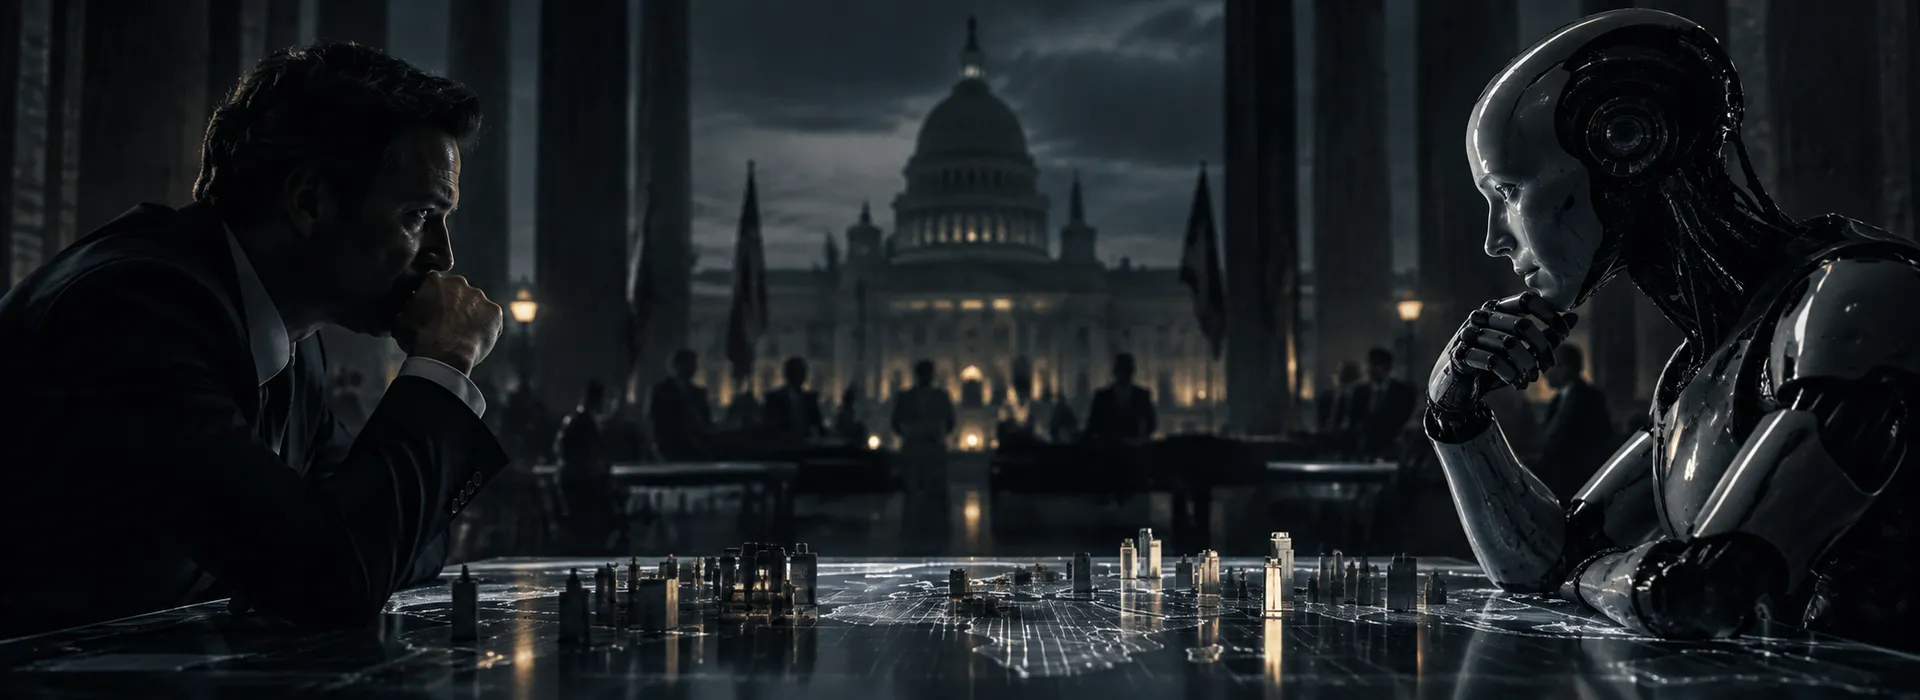
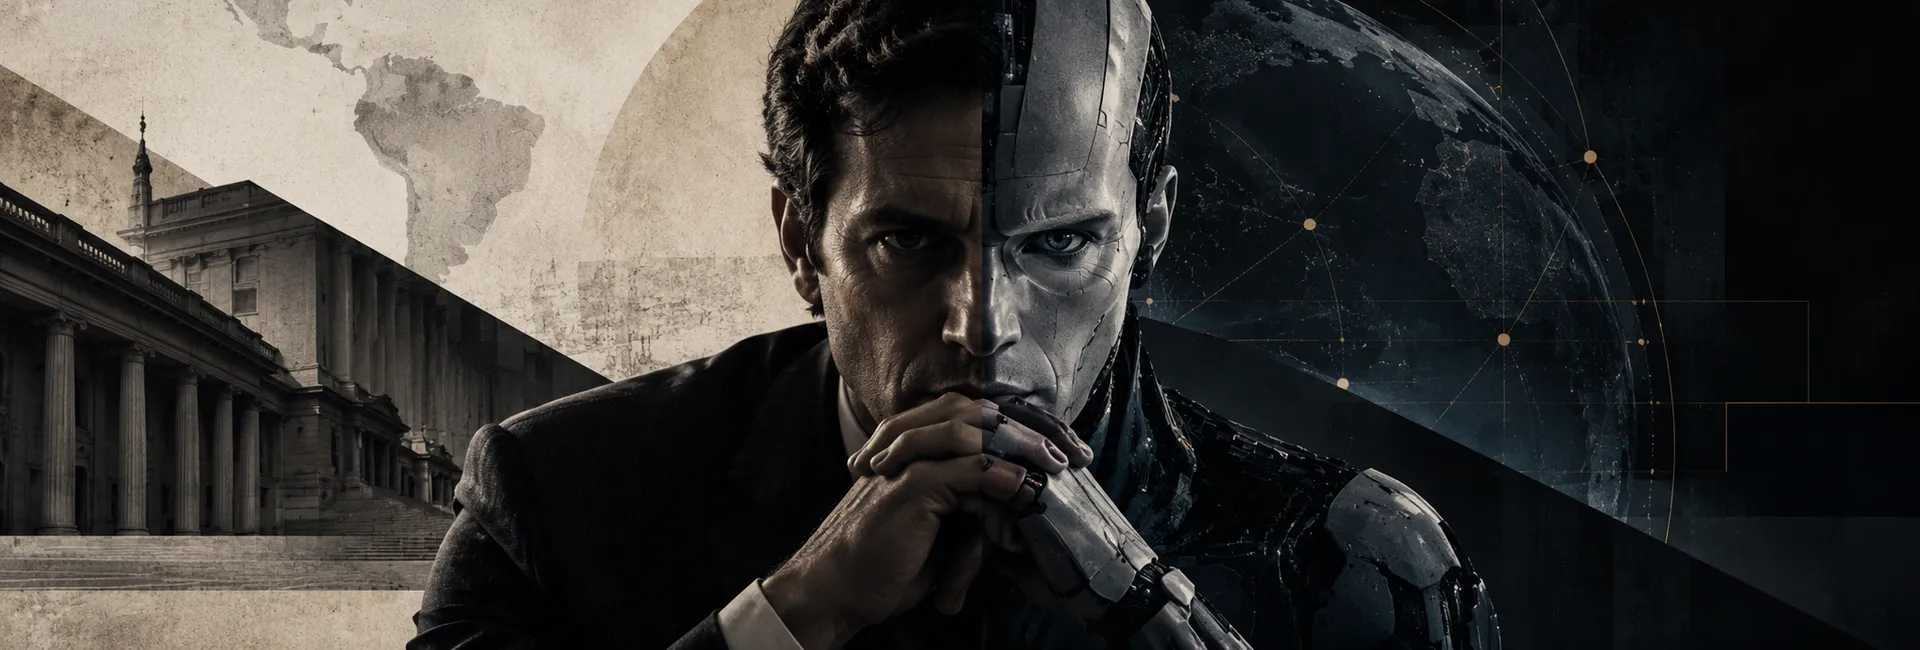
Blog: imágenes nuevas del XD, velo dorado y versión mobile
- Las tres imágenes de los artículos, reemplazadas por las nuevas de
  blog.xd y de la landing, recortadas a la franja de 1920×650 de la
  cabecera; las tarjetas se encuadran como las máscaras del XD.
- Velo dorado del XD (multiplicar): desde abajo en Guerra cognitiva y
  desde la izquierda en Especismo, en tarjetas y cabeceras.
- Cabecera del artículo a 650px, como en blog.xd.
- Mobile: imagen propia por artículo con el recorte de la tarjeta del XD
  a resolución original (más nítida y más liviana).

diff --git a/src/blog.ts b/src/blog.ts
@@ -20,10 +20,15 @@ export type Article = {
   excerpt: string
   /** Minutos de lectura (unas 220 palabras por minuto). */
   minutes: number
+  /** Franja de 1920×650 que muestra la cabecera de blog.xd. */
   image: string
-  /** Encuadre de la imagen de cabecera y de la tarjeta (object-position). */
+  /** Mobile: el recorte de la tarjeta del XD (4:3) a resolución original. */
+  imageMobile: string
+  /** Encuadre de la imagen de cabecera y de la tarjeta en escritorio (object-position). */
   imagePosition: string
   cardPosition: string
+  /** Velo dorado del XD sobre la imagen: desde abajo o desde la izquierda. */
+  tint?: 'bottom' | 'left'
   /** Título de tarjeta a 20px en lugar de 22 (el más largo, como en el XD). */
   cardCompact?: boolean
   blocks: ArticleBlock[]
@@ -40,8 +45,10 @@ export const ARTICLES: Article[] = [
     excerpt: 'Influir en lo que una persona siente, cree y decide puede tener consecuencias estratégicas.',
     minutes: 6,
     image: a('/img/blog/guerra-cognitiva.webp'),
-    imagePosition: '50% 62%',
-    cardPosition: '19.5% 32%',
+    imageMobile: a('/img/blog/guerra-cognitiva-m.webp'),
+    imagePosition: '57% 50%',
+    cardPosition: '57% 50%',
+    tint: 'bottom',
     cardCompact: true,
     blocks: [
       { type: 'p', text: 'Una noticia provoca indignación. Un video despierta miedo. Una afirmación aparece repetida en distintas cuentas hasta parecer una verdad ampliamente aceptada. Antes de comprobar su origen, miles de personas la comparten y contribuyen a ampliar su alcance.' },
@@ -99,8 +106,9 @@ export const ARTICLES: Article[] = [
     excerpt: 'La guerra psicológica, la influencia mediática y el uso estratégico del derecho forman parte de una concepción del poder',
     minutes: 6,
     image: a('/img/blog/tres-guerras.webp'),
-    imagePosition: '50% 33%',
-    cardPosition: '41.6% 0%',
+    imageMobile: a('/img/blog/tres-guerras-m.webp'),
+    imagePosition: '60% 50%',
+    cardPosition: '60% 50%',
     blocks: [
       { type: 'p', text: 'Imaginemos una escena en el mar de China Meridional: un buque transmite por altavoces un mensaje que afirma la soberanía china sobre las aguas en disputa. Al mismo tiempo, medios de comunicación y plataformas digitales difunden mapas, argumentos históricos y declaraciones oficiales que respaldan esa posición.' },
       { type: 'p', text: 'La escena permite entender una idea central de la estrategia: una disputa territorial también se desarrolla en la mente de quienes participan en ella y en la percepción de quienes la observan. La fuerza militar puede acompañarse de mensajes destinados a intimidar, argumentos que buscan legitimidad y relatos que intentan imponerse en la opinión pública.' },
@@ -154,8 +162,10 @@ export const ARTICLES: Article[] = [
     excerpt: 'La inteligencia artificial abre un debate que trasciende la tecnología: quién debe decidir, cómo se distribuirán sus beneficios',
     minutes: 6,
     image: a('/img/blog/especismo-maquinismo.webp'),
-    imagePosition: '50% 69%',
-    cardPosition: '18.5% 100%',
+    imageMobile: a('/img/blog/especismo-maquinismo-m.webp'),
+    imagePosition: '50% 50%',
+    cardPosition: '50% 50%',
+    tint: 'left',
     blocks: [
       { type: 'p', text: '¿Qué ocurriría si delegáramos decisiones políticas en máquinas capaces de analizar más información que cualquier equipo humano? ¿Quién tendría la última palabra ante un desacuerdo? ¿Y quién controlaría los sistemas de los que depende esa capacidad?' },
       { type: 'p', text: 'Estas preguntas permiten explorar una dimensión del debate sobre la inteligencia artificial: su relación con el poder.' },

diff --git a/src/mobile/sections/Blog.tsx b/src/mobile/sections/Blog.tsx
@@ -3,6 +3,7 @@ import { RichText } from '../../shared/RichText.tsx'
 import { ShareMenu } from '../../shared/ShareMenu.tsx'
 import { IconArrowRight } from '../icons.tsx'
 import '../blog.css'
+import '../../shared/tint.css'
 
 /** Fecha · minutos de lectura, en dorado. */
 function Meta({ article }: { article: ArticleData }) {
@@ -34,8 +35,8 @@ export function Blog() {
             const href = articleHref(article.slug)
             return (
               <li key={article.slug} className="m-blog__card" data-reveal>
-                <a href={href} className="m-blog__img" tabIndex={-1} aria-hidden="true">
-                  <img src={article.image} alt="" loading="lazy" style={{ objectPosition: article.cardPosition }} />
+                <a href={href} className="m-blog__img" data-tint={article.tint} tabIndex={-1} aria-hidden="true">
+                  <img src={article.imageMobile} alt="" loading="lazy" />
                 </a>
                 <p className="m-blog__day">{article.day}</p>
                 <h3 className="m-blog__title">
@@ -71,8 +72,8 @@ export function Article({ article }: { article: ArticleData }) {
           <Meta article={article} />
         </div>
       </header>
-      <div className="m-post__hero">
-        <img src={article.image} alt="" style={{ objectPosition: article.imagePosition }} />
+      <div className="m-post__hero" data-tint={article.tint}>
+        <img src={article.imageMobile} alt="" />
       </div>
       <div className="m-wrap m-post__body">
         <p className="m-post__lead">{article.lead}</p>

diff --git a/src/App.tsx b/src/App.tsx
@@ -34,6 +34,7 @@ import MobileApp from './mobile/MobileApp.tsx'
 const asset = (p: string) => `${import.meta.env.BASE_URL}${p.replace(/^\//, '')}`
 import './App.css'
 import './blog.css'
+import './shared/tint.css'
 
 gsap.registerPlugin(ScrollTrigger, useGSAP)
 
@@ -766,7 +767,7 @@ function Blog() {
               className="blog__card"
               style={{ left: 200 + i * 519, transitionDelay: `${i * 120}ms` }}
             >
-              <a href={href} className="blog__img" tabIndex={-1} aria-hidden="true">
+              <a href={href} className="blog__img" data-tint={article.tint} tabIndex={-1} aria-hidden="true">
                 <img src={article.image} alt="" loading="lazy" style={{ objectPosition: article.cardPosition }} />
               </a>
               <p className="blog__day">{article.day}</p>
@@ -821,7 +822,7 @@ function ArticlePage({ article }: { article: Article }) {
             </h1>
             <ArticleMeta article={article} className="post__meta" />
           </header>
-          <div className="post__hero">
+          <div className="post__hero" data-tint={article.tint}>
             <img src={article.image} alt="" style={{ objectPosition: article.imagePosition }} />
           </div>
           <div className="post__body">

diff --git a/src/shared/tint.css b/src/shared/tint.css
@@ -1,0 +1,25 @@
+/*
+ * Velo dorado de las imágenes del blog (blog.xd y la landing): degradado de
+ * #a87f3c a transparente en modo multiplicar, desde abajo o desde la izquierda.
+ * El contenedor ya va posicionado; --tint-reach es hasta dónde llega el lateral.
+ */
+
+[data-tint] {
+  isolation: isolate;
+}
+
+[data-tint]::after {
+  content: '';
+  position: absolute;
+  inset: 0;
+  mix-blend-mode: multiply;
+  pointer-events: none;
+}
+
+[data-tint='bottom']::after {
+  background: linear-gradient(to top, #a87f3c, rgb(168 127 60 / 0));
+}
+
+[data-tint='left']::after {
+  background: linear-gradient(to right, #a87f3c, rgb(168 127 60 / 0) var(--tint-reach, 60%));
+}

diff --git a/src/mobile/blog.css b/src/mobile/blog.css
@@ -25,6 +25,7 @@
 }
 
 .m-blog__img {
+  position: relative;
   display: block;
   aspect-ratio: 482 / 362;
   overflow: hidden;
@@ -169,6 +170,7 @@
 }
 
 .m-post__hero {
+  position: relative;
   aspect-ratio: 16 / 10;
   overflow: hidden;
   background: var(--navy-700);

diff --git a/src/blog.css b/src/blog.css
@@ -250,8 +250,10 @@
 }
 
 .post__hero {
-  height: 660px;
+  position: relative;
+  height: 650px;
   overflow: hidden;
+  --tint-reach: 52.2%;
   background: var(--navy-700);
 }
 
